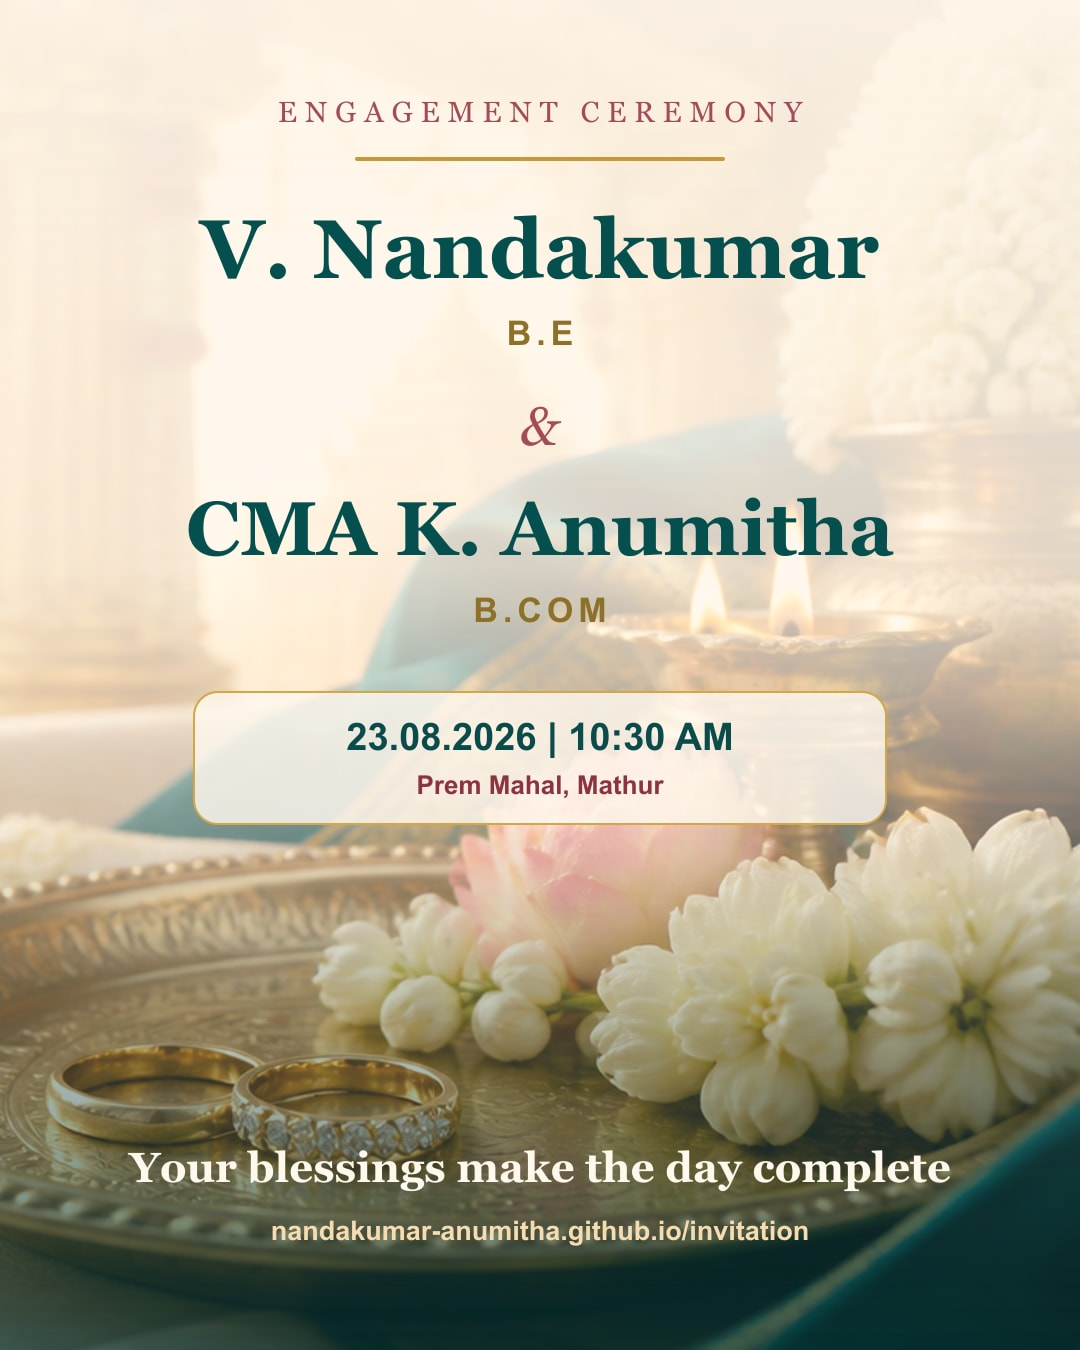
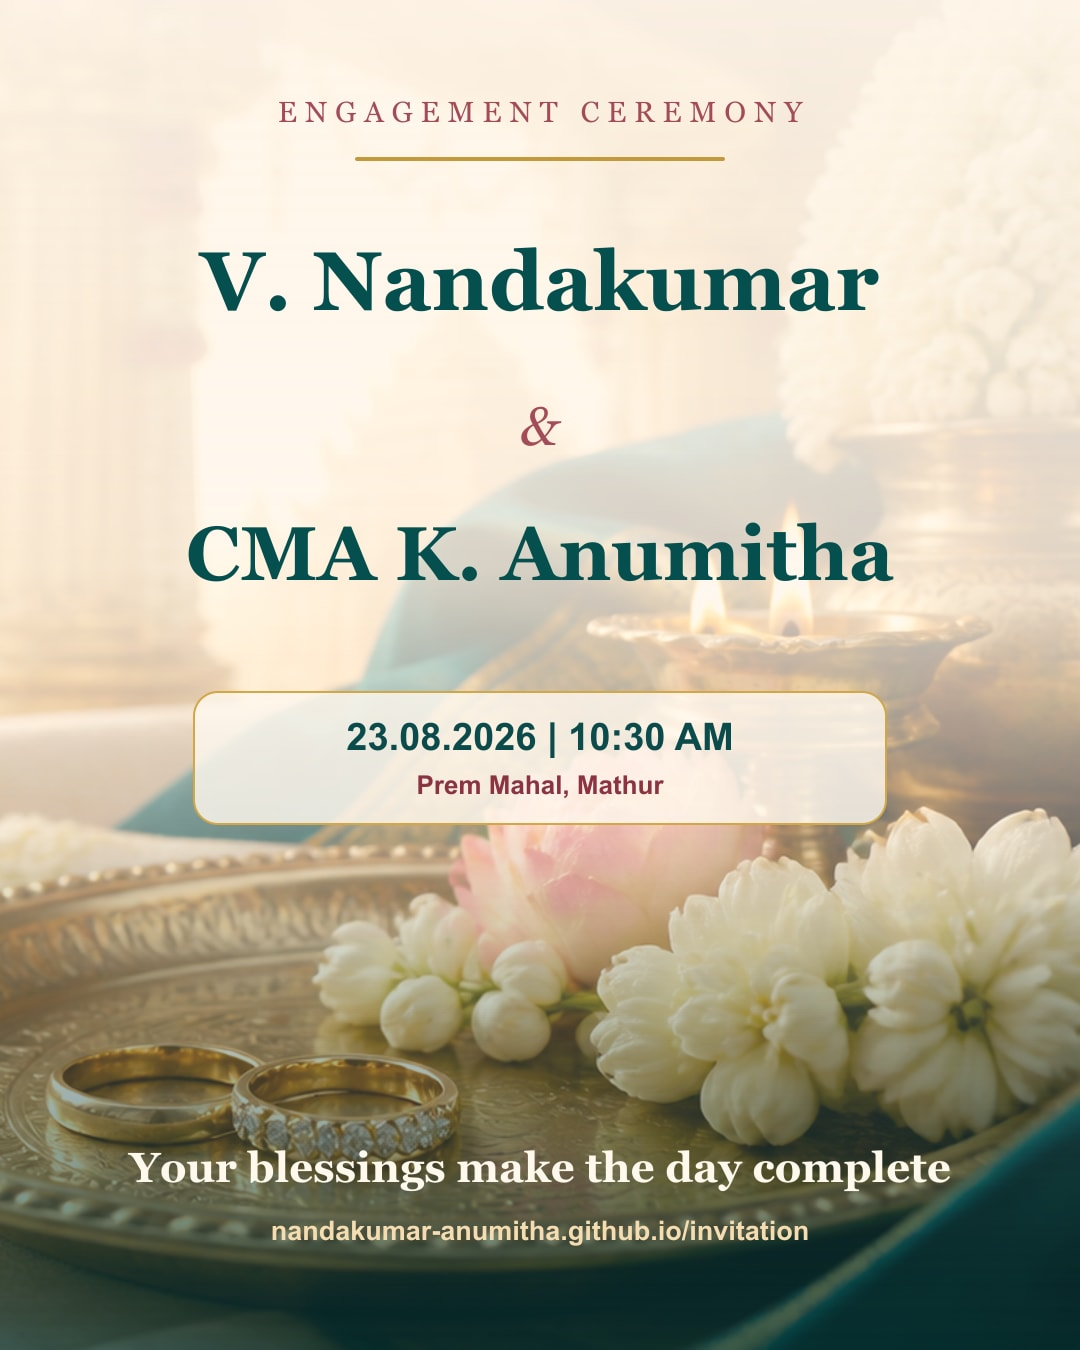
Update invitation names and presence heading

Changed region(s): [[0.1833, 0.1556, 0.825, 0.2489], [0.1528, 0.3733, 0.825, 0.4667]]

diff --git a/static-site/index.html b/static-site/index.html
@@ -37,9 +37,9 @@
         <div class="heroContent">
           <p class="eyebrow">Engagement Ceremony</p>
           <h1 class="coupleTitle">
-            <span><strong>V. Nandakumar <small>B.E</small></strong></span>
+            <span><strong>V. Nandakumar</strong></span>
             <em>&</em>
-            <span><strong>CMA K. Anumitha <small>B.COM</small></strong></span>
+            <span><strong>CMA K. Anumitha</strong></span>
           </h1>
           <p class="intro">
             With the blessings of our families, we invite you to bless the
@@ -101,7 +101,7 @@
           </div>
           <a
             class="calendarButton"
-            href="https://calendar.google.com/calendar/render?action=TEMPLATE&text=V.%20Nandakumar%20B.E%20%26%20CMA%20K.%20Anumitha%20B.COM%20Engagement%20Ceremony&dates=20260823T050000Z/20260823T080000Z&details=Engagement%20ceremony%20of%20V.%20Nandakumar%20B.E%20%26%20CMA%20K.%20Anumitha%20B.COM.%20Venue%3A%20Prem%20Mahal%2C%201st%20Main%20Road%2C%20MMDA%2C%20TNHB%20Layout%2C%20Mathur%2C%20Tamil%20Nadu&location=Prem%20Mahal%2C%201st%20Main%20Road%2C%20MMDA%2C%20TNHB%20Layout%2C%20Mathur%2C%20Tamil%20Nadu"
+            href="https://calendar.google.com/calendar/render?action=TEMPLATE&text=V.%20Nandakumar%20%26%20CMA%20K.%20Anumitha%20Engagement%20Ceremony&dates=20260823T050000Z/20260823T080000Z&details=Engagement%20ceremony%20of%20V.%20Nandakumar%20%26%20CMA%20K.%20Anumitha.%20Venue%3A%20Prem%20Mahal%2C%201st%20Main%20Road%2C%20MMDA%2C%20TNHB%20Layout%2C%20Mathur%2C%20Tamil%20Nadu&location=Prem%20Mahal%2C%201st%20Main%20Road%2C%20MMDA%2C%20TNHB%20Layout%2C%20Mathur%2C%20Tamil%20Nadu"
           >
             Add to Calendar
           </a>
@@ -155,7 +155,7 @@
             <a class="secondaryButton" id="shareInviteFooter" href="#">Share Map Location</a>
           </div>
           <div class="rsvp contactCards">
-            <span>For Assistance</span>
+            <span>Awaiting your presence</span>
             <div class="contactCard">
               <strong>Aravind</strong>
               <p>78455 04099</p>

diff --git a/app/page.tsx b/app/page.tsx
@@ -4,9 +4,7 @@ import { useEffect, useMemo, useRef, useState } from "react";
 
 const invitation = {
   groom: "V. Nandakumar",
-  groomDegree: "B.E",
   bride: "CMA K. Anumitha",
-  brideDegree: "B.COM",
   date: "23.08.2026",
   time: "10:30 AM",
   venue: "Prem Mahal",
@@ -41,7 +39,7 @@ export default function Home() {
   const [inviteUrl, setInviteUrl] = useState("");
   const [now, setNow] = useState(() => new Date());
   const activeVideo = videos[activeVideoIndex];
-  const couple = `${invitation.groom} ${invitation.groomDegree} & ${invitation.bride} ${invitation.brideDegree}`;
+  const couple = `${invitation.groom} & ${invitation.bride}`;
   const primaryContact = invitation.contacts[0];
   const mapQuery = encodeURIComponent(
     `${invitation.venue}, ${invitation.address}`
@@ -139,15 +137,11 @@ export default function Home() {
           <p className="eyebrow">Engagement Ceremony</p>
           <h1 className="coupleTitle">
             <span>
-              <strong>
-                {invitation.groom} <small>{invitation.groomDegree}</small>
-              </strong>
+              <strong>{invitation.groom}</strong>
             </span>
             <em>&</em>
             <span>
-              <strong>
-                {invitation.bride} <small>{invitation.brideDegree}</small>
-              </strong>
+              <strong>{invitation.bride}</strong>
             </span>
           </h1>
           <p className="intro">
@@ -327,7 +321,7 @@ export default function Home() {
             </a>
           </div>
           <div className="rsvp contactCards">
-            <span>For Assistance</span>
+            <span>Awaiting your presence</span>
             {invitation.contacts.map((contact) => (
               <div className="contactCard" key={contact.phone}>
                 <strong>{contact.name}</strong>

diff --git a/static-site/script.js b/static-site/script.js
@@ -22,7 +22,7 @@ const audioNotice = document.getElementById("audioNotice");
 const videoFrame = document.getElementById("videoFrame");
 const videoDots = Array.from(document.querySelectorAll("[data-video-index]"));
 const shareText = encodeURIComponent(
-  `You are warmly invited to V. Nandakumar B.E & CMA K. Anumitha B.COM's engagement on 23.08.2026 at 10:30 AM, Prem Mahal. ${window.location.href}`
+  `You are warmly invited to V. Nandakumar & CMA K. Anumitha's engagement on 23.08.2026 at 10:30 AM, Prem Mahal. ${window.location.href}`
 );
 const mapShareText = encodeURIComponent(
   "Venue location: Prem Mahal, 1st Main Road, MMDA, TNHB Layout, Mathur, Tamil Nadu. Map: https://www.google.com/maps/search/?api=1&query=Prem%20Mahal%2C%201st%20Main%20Road%2C%20MMDA%2C%20TNHB%20Layout%2C%20Mathur%2C%20Tamil%20Nadu"

diff --git a/README.md b/README.md
@@ -1,6 +1,6 @@
 # Nandakumar & Anumitha Engagement Invitation
 
-A modern engagement invitation website for V. Nandakumar B.E and CMA K. Anumitha B.COM.
+A modern engagement invitation website for V. Nandakumar and CMA K. Anumitha.
 
 ## Live Invitation
 
